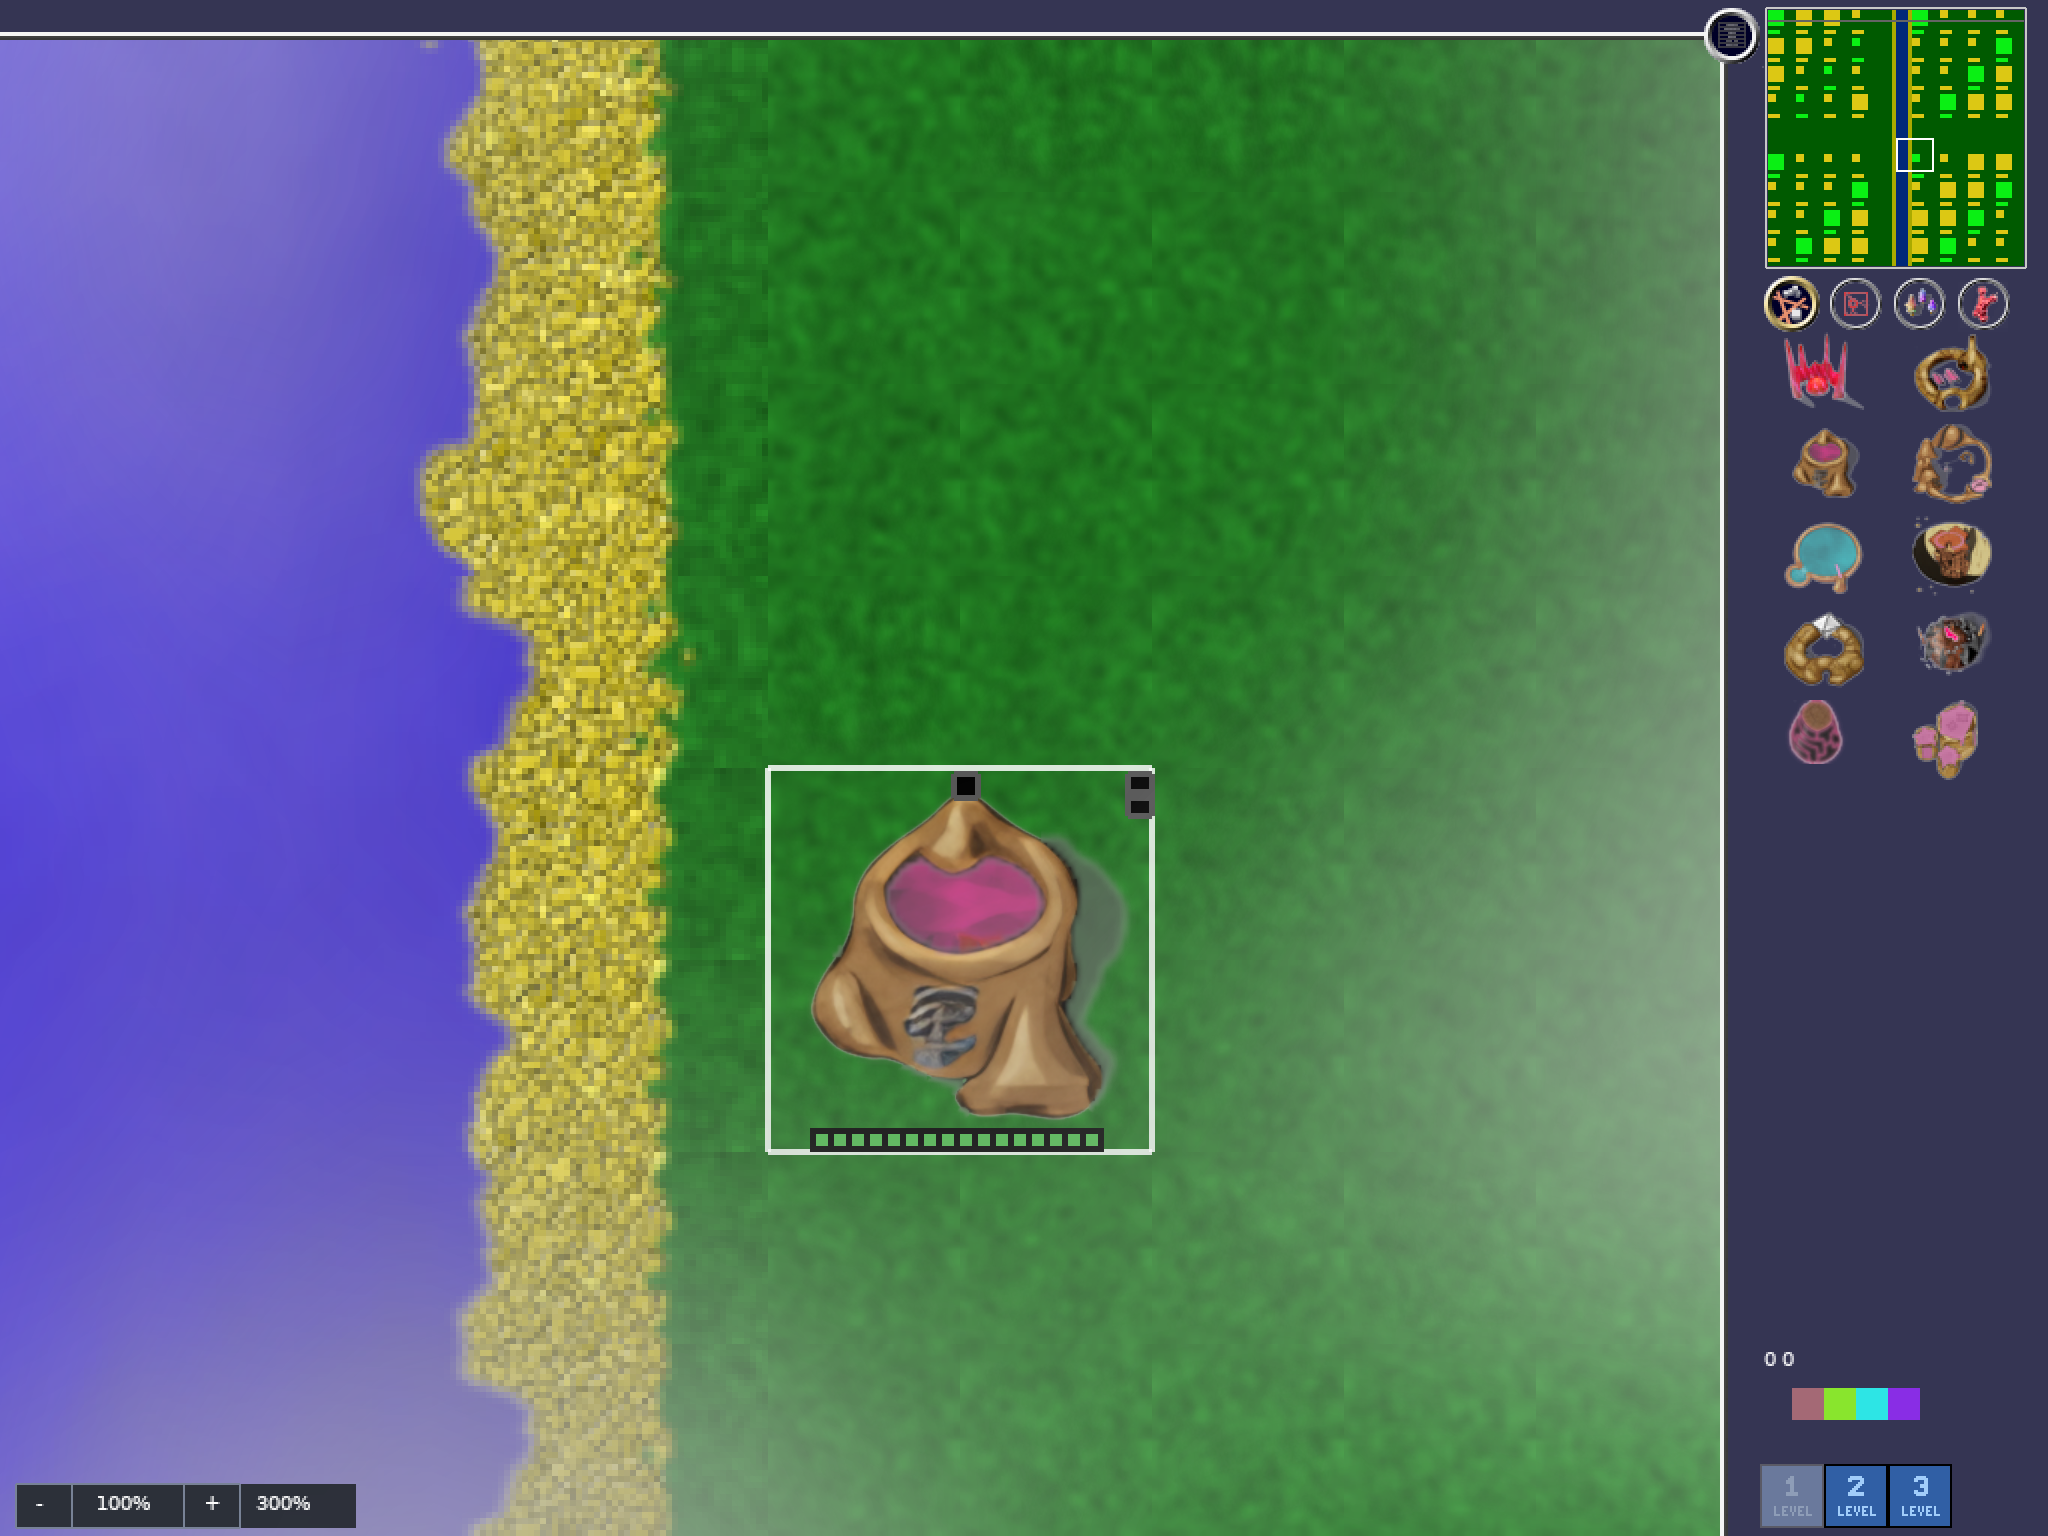
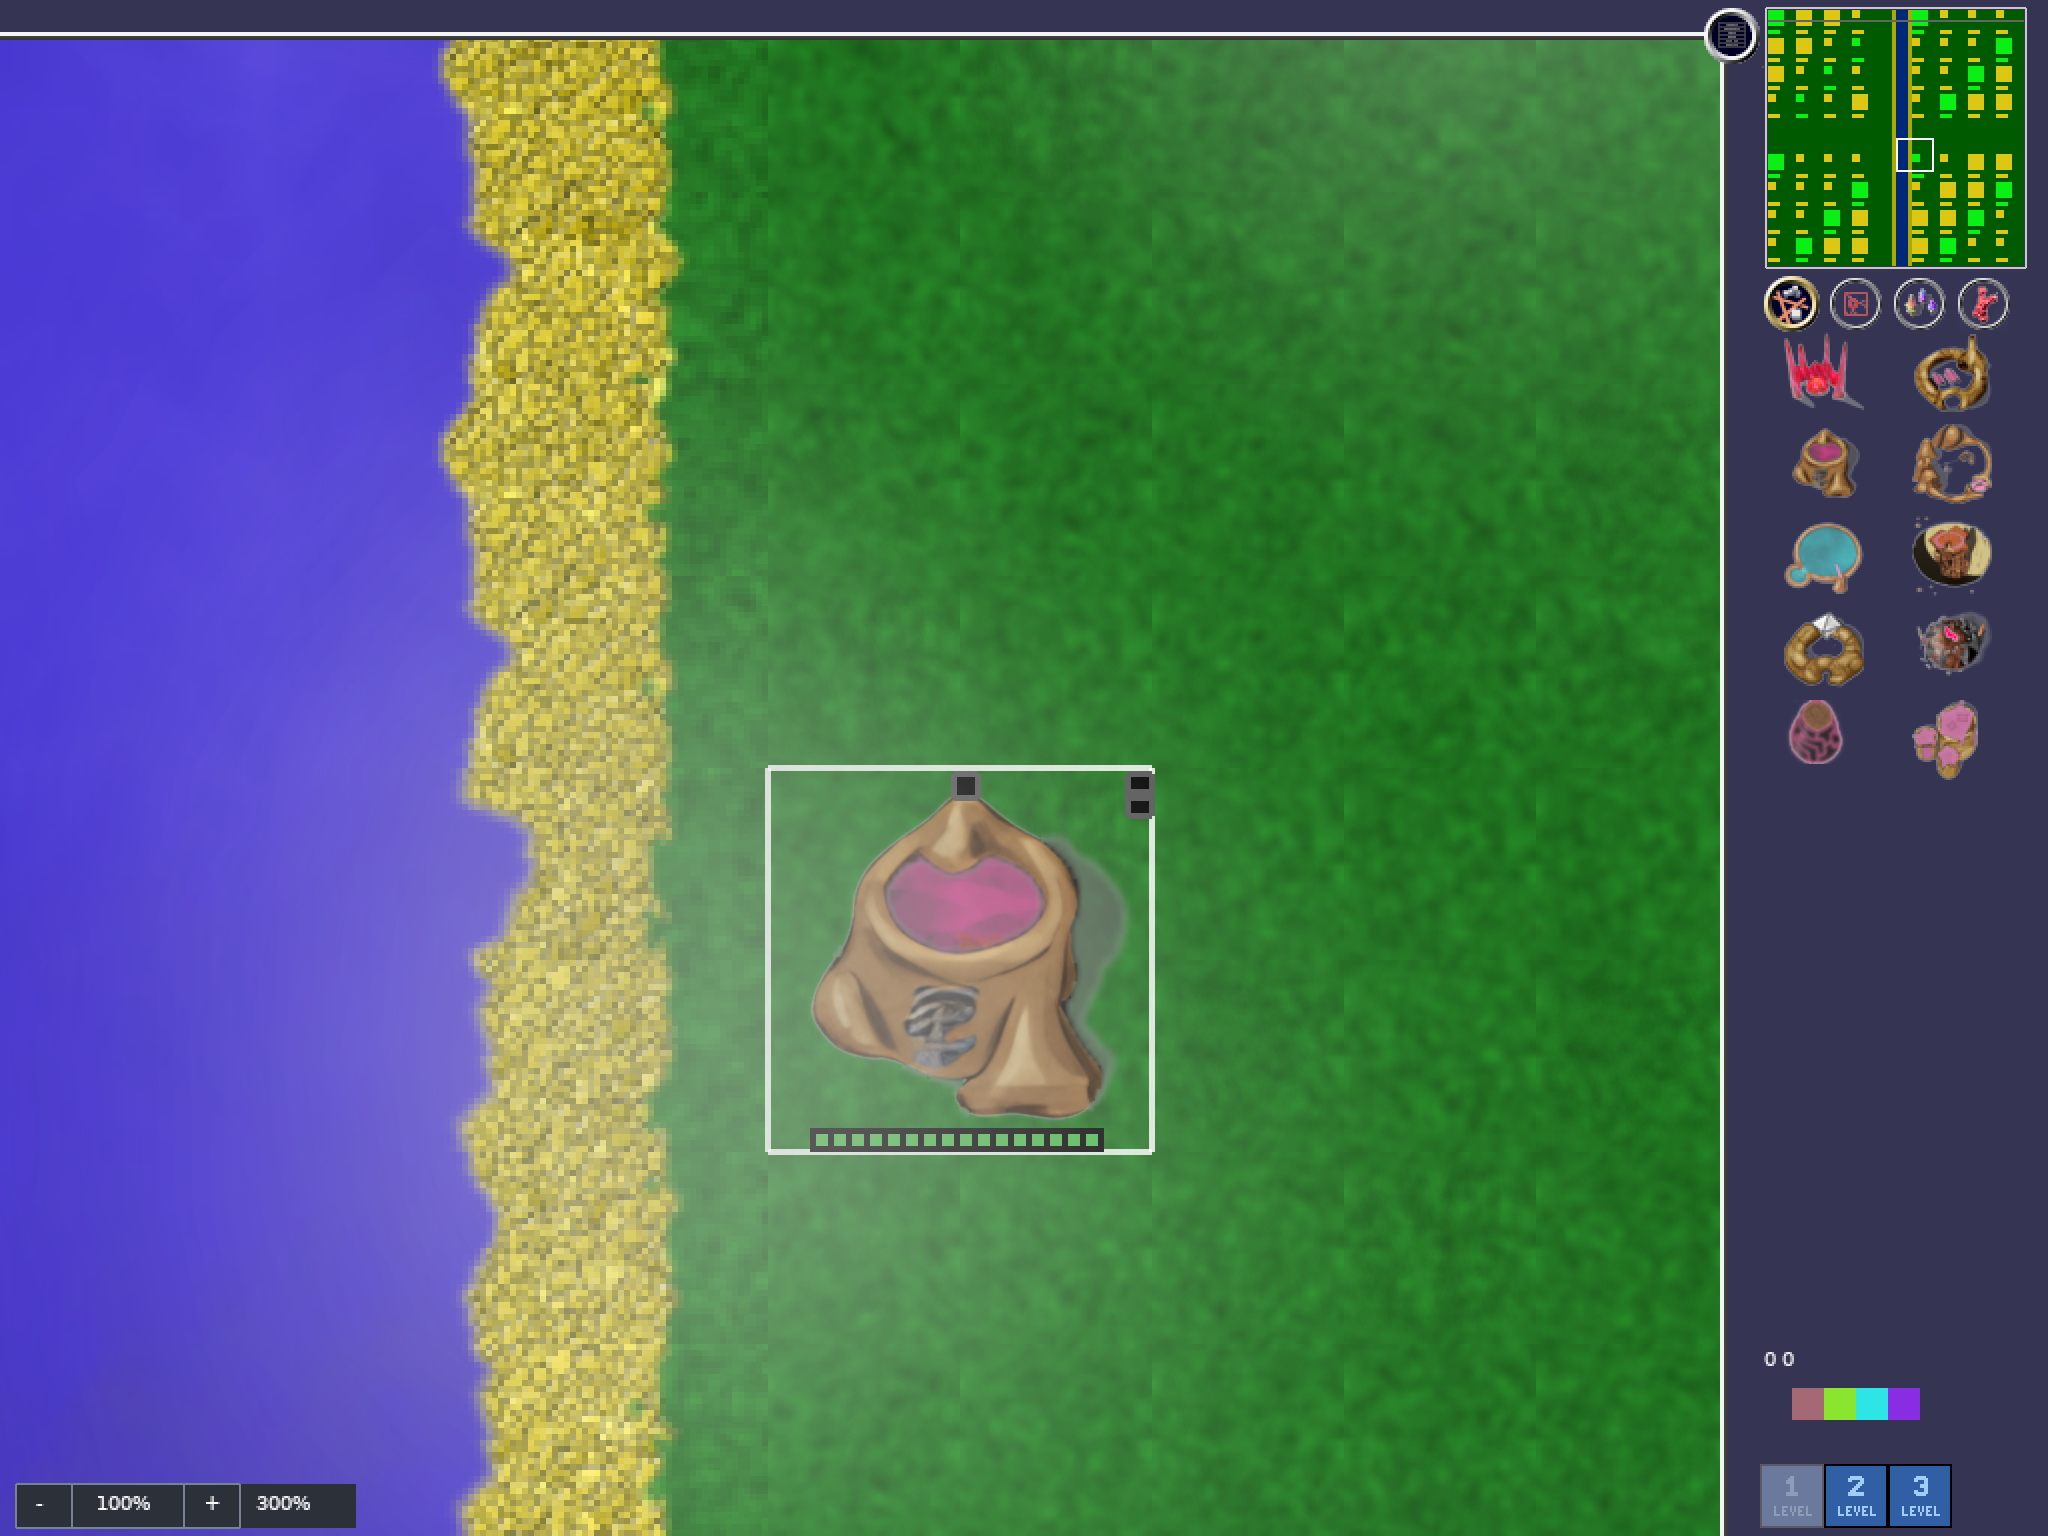
Validate the isolated PR branch and refresh in-engine captures

diff --git a/test/HighResolutionIntegrationHarness.cpp b/test/HighResolutionIntegrationHarness.cpp
@@ -44,7 +44,7 @@ public:
             assert(gui.camera.zoom==1&&Sprite::highResolutionStats().cpuBytes==0);
         }
         {
-            MapEdit editor;assert(editor.load("maps/Maxima_Dig_Out.map"));editor.minimap.setGame(editor.game);
+            MapEdit editor;assert(editor.load("maps/Archipelago.map"));editor.minimap.setGame(editor.game);
             editor.updateCamera();editor.zoomMap(10,300,300);
             editor.drawMap(0,0,globalContainer->gfx->getW(),globalContainer->gfx->getH());
             editor.drawMenu();editor.drawMiniMap();editor.drawWidgets();
@@ -112,7 +112,7 @@ public:
         }
         globalContainer->replaying=false;
         {
-            MapEdit editor;assert(editor.load("maps/Maxima_Dig_Out.map"));editor.minimap.setGame(editor.game);editor.updateCamera();
+            MapEdit editor;assert(editor.load("maps/Archipelago.map"));editor.minimap.setGame(editor.game);editor.updateCamera();
             const auto checksum=editor.game.checkSum(nullptr,nullptr,nullptr,true);
             for(double zoom:{.5,1.,2.,3.})
             {
@@ -178,7 +178,7 @@ int main(int argc,char **argv)
     std::filesystem::copy_file("tests/baselines/gradient/gd-small-2ai.replay", ".cache/ai-upscale/replay-fixture/replays/gd-small-2ai.replay", std::filesystem::copy_options::overwrite_existing);
     GlobalContainer globals("glob2-hd-integration-test");globalContainer=&globals;
     globals.settings.screenWidth=1024;globals.settings.screenHeight=768;globals.settings.screenFlags=GraphicContext::USEGPU;
-    globals.settings.rememberUnit=false;globals.settings.mute=1;globals.disableReplayRecording=true;
+    globals.settings.rememberUnit=false;globals.settings.mute=1;
     globals.fileManager->addDir(".cache/ai-upscale/replay-fixture");
     const bool software=argc>1&&std::string(argv[1])=="software";
     if(software)globals.settings.screenFlags=0;

diff --git a/docs/high-resolution/README.md b/docs/high-resolution/README.md
@@ -46,7 +46,7 @@ These are actual OpenGL captures from the integration harness, not generated moc
 
 ## Validation, cost and follow-up
 
-See [runtime instructions and measured results](../../experiments/ai-upscale/HIGH-RESOLUTION-RUNTIME.md). The optimized build, pack validation, camera tests, eight wheel tests, gameplay/editor/replay integration, software rendering, fallback cases, and all-frame/all-hue cache checks pass in the experiment checkout. A 50-tick original/HD comparison produces matching simulation checksums. Three Maxima placement failures remain in the broader 195-test suite; that suite is not fully green.
+See [runtime instructions and measured results](../../experiments/ai-upscale/HIGH-RESOLUTION-RUNTIME.md). The optimized build, pack validation, camera tests, eight wheel tests, gameplay/editor/replay integration, software rendering, fallback cases, and all-frame/all-hue cache checks pass in the experiment checkout. A 50-tick original/HD comparison produces matching simulation checksums. The clean PR branch passes its full 171-test CppUnit suite. The earlier experiment checkout had three failures in its additional Maxima placement tests; those AI changes are not part of this PR.
 
 On the development Mac, the dense four-team fixture uses about 171 MB GPU memory with HD artwork, versus 42 MB with originals. At 50% zoom, measured frame times were about 16.5/11.3 ms HD/original; at 300%, about 2.1/2.0 ms. HD adds one draw call rather than per-tile calls. The deliberately maximal all-frames/all-16-hues stress test reaches 614 MB CPU and 1.19 GB GPU allocation; cache size stabilizes and releases on session close. These are local measurements against the updated renderer with original art, not a historical renderer benchmark or a cross-platform performance guarantee.
 

diff --git a/experiments/ai-upscale/HIGH-RESOLUTION-RUNTIME.md b/experiments/ai-upscale/HIGH-RESOLUTION-RUNTIME.md
@@ -69,7 +69,7 @@ The integration harness creates an isolated settings profile and replay fixture.
 
 `RuntimePackCheck.cpp` additionally exercises every frame in all 16 hues, checks logical dimensions and GL errors, confirms bounded cache reuse/release, and benchmarks a synthetic dense scene. It supports `original`, `software`, and `fallback` modes. Tested negative packs include missing files/layers, incorrect dimensions, a missing pack and an unsupported version.
 
-The eight focused scroll-wheel tests pass. The full CppUnit run reports 195 tests with three failures in MaximaPlacement tests (colony corn/blocked scoring, threat/conquered scoring, disconnected swimming builders). No AI code was changed in this experiment; those failures remain unresolved and prevent claiming an entirely green full suite.
+The eight focused scroll-wheel tests pass. The clean PR branch based on master passes all 171 CppUnit tests. The original experiment checkout had 195 tests with three failures in additional Maxima placement cases; the unrelated AI commits are excluded from the PR.
 
 ## Measurements and review limits
 
